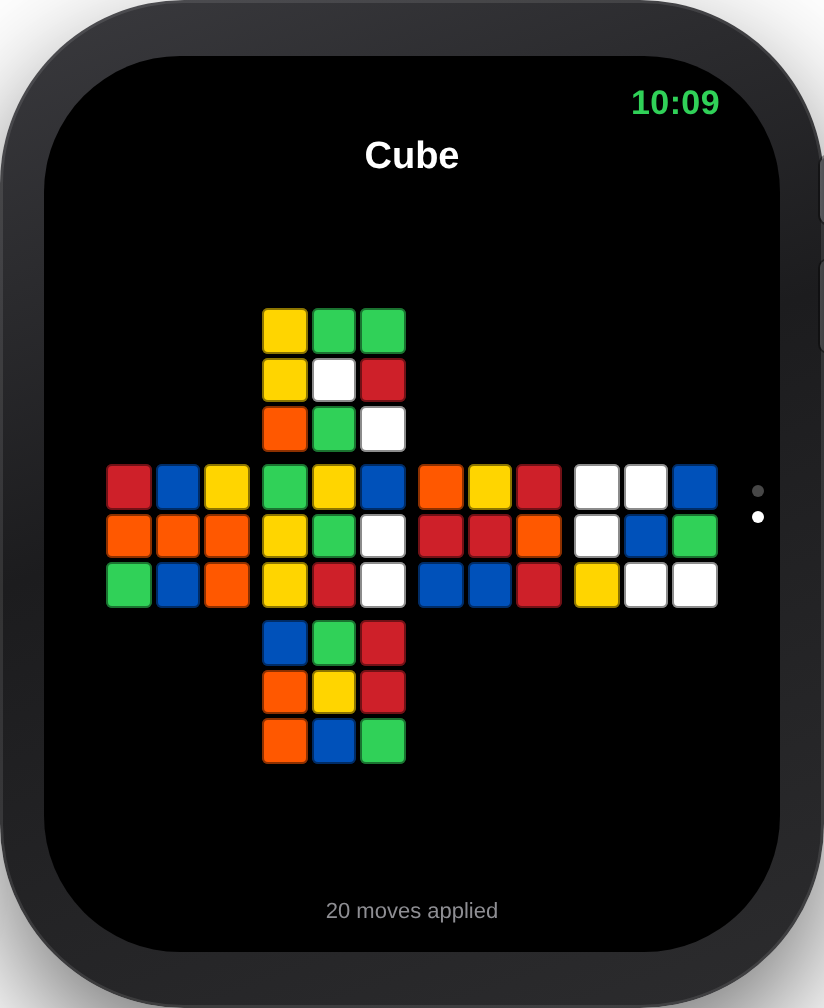
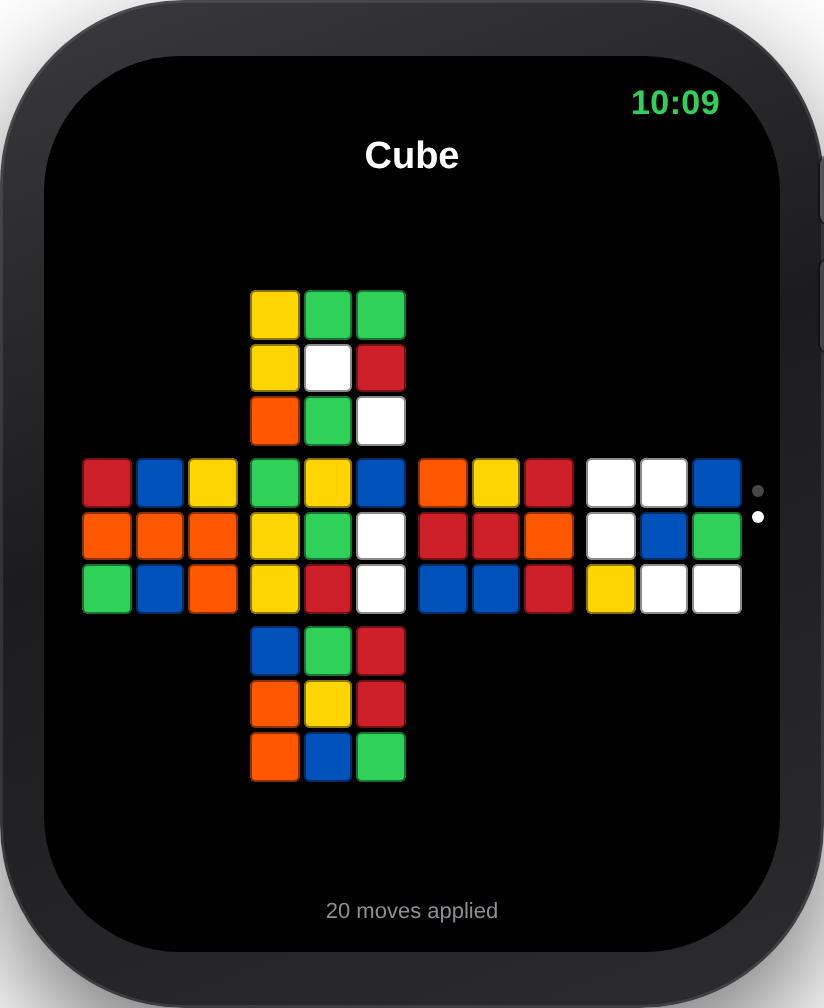
Update mockup for the new length pill and larger cube net
Drops the +/- stepper and adds two scramble frames showing the new pill
in both states (idle: gray with dial icon; focused: accent green with
checkmark.circle, plus a subtle green glow on the Digital Crown to
signal that the crown is now bound to that control). Cube-net face
size bumped 72px to 78px to mirror the Swift change.

https://claude.ai/code/session_01UzvteeouedwRnp5Jnq4bwE

Changed region(s): [[0.091, 0.2768, 0.9102, 0.7996]]

diff --git a/mockup/index.html b/mockup/index.html
@@ -126,22 +126,35 @@
     padding: 6px 2px 12px;
   }
 
-  .stepper {
+  /* Length pill: tap once to capture the Digital Crown, tap again to release. */
+  .lengthpill {
     display: flex;
     align-items: center;
-    justify-content: space-between;
-    background: #1c1c1e;
+    justify-content: center;
+    gap: 7px;
+    width: 100%;
+    background: rgba(120,120,128,0.20);
+    color: #fff;
+    border: none;
     border-radius: 22px;
-    padding: 7px 8px 7px 16px;
+    padding: 10px 12px;
+    font-size: 15px;
+    font-weight: 500;
     margin-bottom: 10px;
+    font-family: inherit;
   }
-  .stepper .label { font-size: 15px; color: #fff; }
-  .stepper .ctrls { display: flex; gap: 6px; }
-  .stepper .ctrls button {
-    width: 34px; height: 30px;
-    border: none; border-radius: 15px;
-    background: #3a3a3c; color: #fff;
-    font-size: 20px; line-height: 1; font-weight: 500;
+  .lengthpill svg { width: 18px; height: 18px; flex-shrink: 0; }
+  .lengthpill.active {
+    background: var(--accent);
+    color: #003912;
+  }
+  /* Subtle green glow on the crown when the length pill is active, signalling
+     that the Digital Crown is now bound to this control. */
+  .watch.crown-active .crown {
+    background: linear-gradient(90deg, #51e07a, #2eb84a);
+    box-shadow:
+      0 0 0 1px rgba(0,0,0,0.4),
+      0 0 10px 2px rgba(48, 209, 88, 0.55);
   }
 
   .primary {
@@ -196,7 +209,7 @@
     grid-template-columns: repeat(3, 1fr);
     grid-template-rows: repeat(3, 1fr);
     gap: 2px;
-    width: 72px; height: 72px;
+    width: 78px; height: 78px;
   }
   .face.empty { background: transparent; }
   .sticker {
@@ -223,16 +236,60 @@
       <div class="content">
         <div class="scramble" id="scrambleText"></div>
 
-        <div class="stepper">
-          <span class="label">Length 20</span>
-          <span class="ctrls">
-            <button>&minus;</button>
-            <button>+</button>
-          </span>
-        </div>
+        <button class="lengthpill">
+          <!-- dial.medium-style glyph -->
+          <svg viewBox="0 0 24 24" fill="none" stroke="currentColor"
+               stroke-width="2" stroke-linecap="round">
+            <circle cx="12" cy="12" r="8"/>
+            <line x1="12" y1="4.5" x2="12" y2="8"/>
+          </svg>
+          <span>Length 20</span>
+        </button>
 
         <button class="primary">
           <!-- shuffle glyph -->
+          <svg viewBox="0 0 24 24" fill="none" stroke="#003912" stroke-width="2.2"
+               stroke-linecap="round" stroke-linejoin="round">
+            <path d="M3 6h4l10 12h4"/><path d="M3 18h4l4-5"/>
+            <path d="M14 8l3-2 3 2"/><path d="M14 16l3 2 3-2"/>
+          </svg>
+          New Scramble
+        </button>
+
+        <div class="hint">
+          <span class="chev">
+            <svg viewBox="0 0 26 12" fill="none" stroke="currentColor"
+                 stroke-width="2" stroke-linecap="round" stroke-linejoin="round">
+              <path d="M3 3l10 6 10-6"/>
+            </svg>
+          </span>
+          <span class="caption">Cube map</span>
+        </div>
+      </div>
+      <div class="pagedots"><span class="dot on"></span><span class="dot"></span></div>
+    </div>
+  </div>
+
+  <!-- ===== Screen 1b: Scramble, length pill focused (crown active) ===== -->
+  <div class="watch crown-active" id="screen-scramble-focused">
+    <div class="crown"></div>
+    <div class="screen">
+      <div class="statusbar"><span class="time">10:09</span></div>
+      <div class="navtitle">Scramble</div>
+      <div class="content">
+        <div class="scramble"></div>
+
+        <button class="lengthpill active">
+          <!-- checkmark.circle.fill-style glyph -->
+          <svg viewBox="0 0 24 24">
+            <circle cx="12" cy="12" r="9" fill="currentColor"/>
+            <path d="M7.5 12 l3 3 l6-6" fill="none" stroke="#fff"
+                  stroke-width="2.4" stroke-linecap="round" stroke-linejoin="round"/>
+          </svg>
+          <span>Length 20</span>
+        </button>
+
+        <button class="primary">
           <svg viewBox="0 0 24 24" fill="none" stroke="#003912" stroke-width="2.2"
                stroke-linecap="round" stroke-linejoin="round">
             <path d="M3 6h4l10 12h4"/><path d="M3 18h4l4-5"/>
@@ -307,8 +364,11 @@ const SCRAMBLE = "R U R' U' F2 L D' B R2 U' F L' B2 D R' U2 L2 F' D2 B'".split("
 (function renderScramble(){
   const lines = [];
   for (let i=0;i<SCRAMBLE.length;i+=5) lines.push(SCRAMBLE.slice(i,i+5).join("  "));
-  document.getElementById("scrambleText").textContent = lines.join("\n");
-  document.getElementById("scrambleText").style.whiteSpace = "pre-line";
+  const text = lines.join("\n");
+  document.querySelectorAll(".scramble").forEach(el => {
+    el.textContent = text;
+    el.style.whiteSpace = "pre-line";
+  });
 })();
 
 /* render the net */
